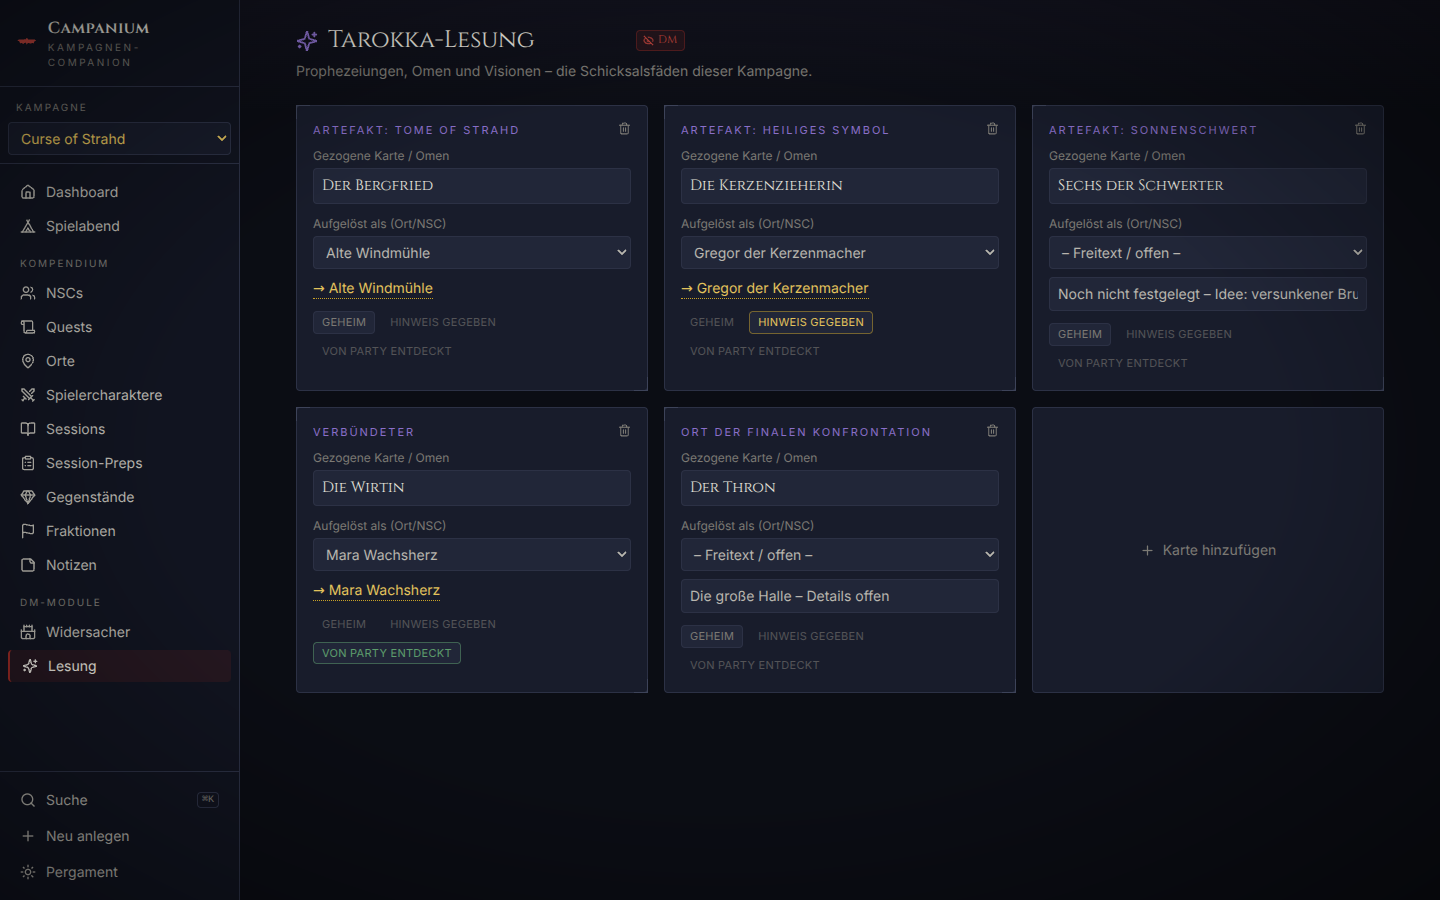
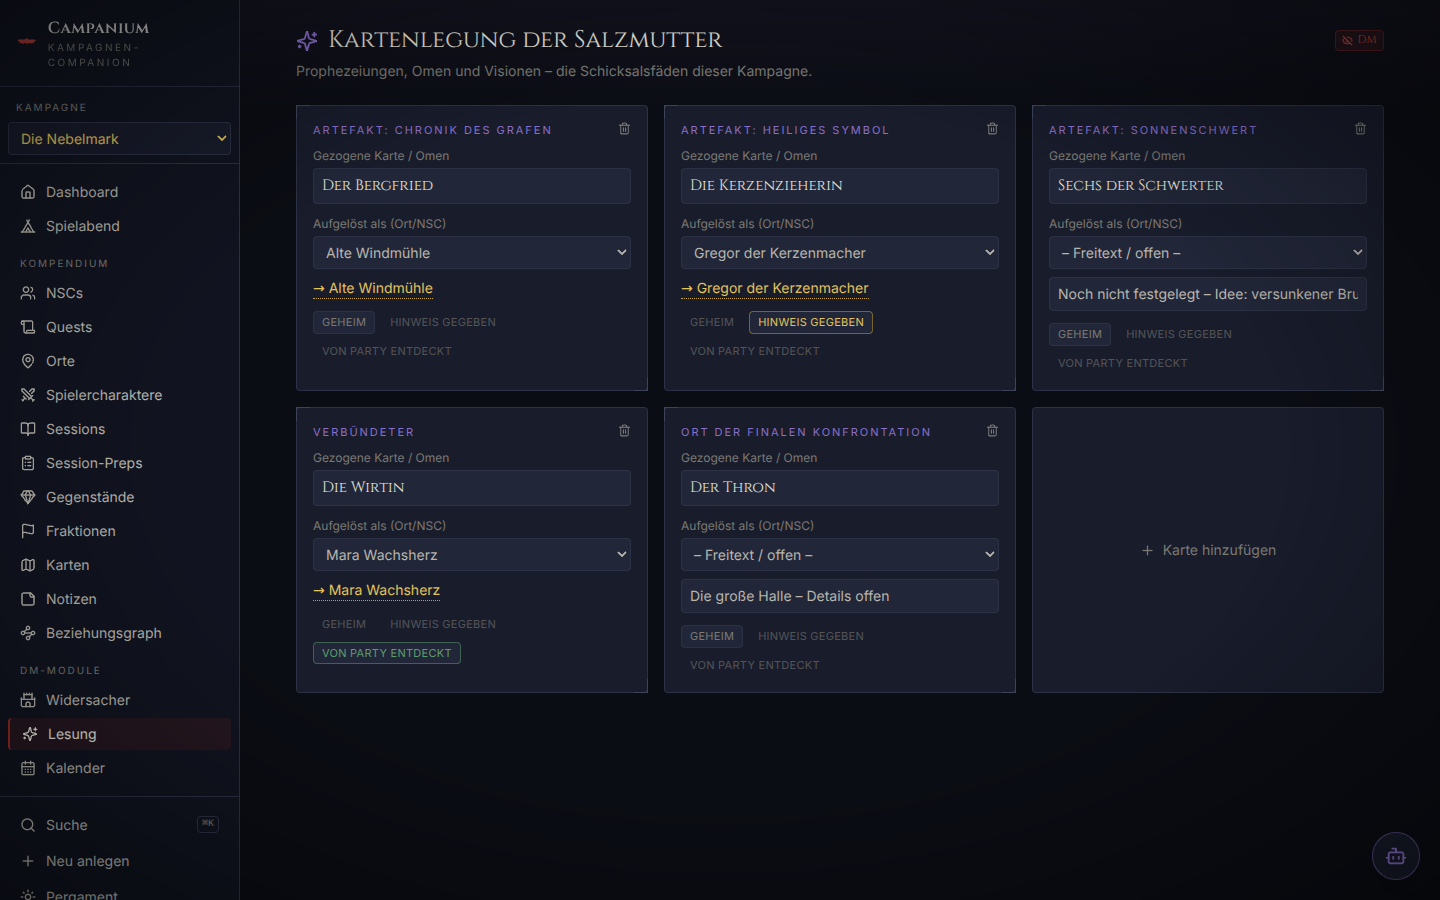
Selaineste statt Selune, Screenshots neu, Fixed-Position-Bugfix
- Selune → Selaineste (Tracker-ID/-Name in der Demo, README,
  ARCHITECTURE): „Selune“ kollidierte selbst mit einem geschützten
  Forgotten-Realms-Namen; Spieler-Export neu gebaut
- Alle 10 Screenshots mit der Nebelmark-Demo neu aufgenommen
  (Dashboard, NSC, Quest-Board, Lesung, Spielabend, Karte, Kalender,
  Graph, Kampagnen-Wechsel, KI-Assistent) – keine Alt-Namen mehr in
  den README-Bildern
- Dabei gefundener Layout-Bug behoben: .karte setzt position:relative
  und überschrieb das fixed des KI-Chat-Drawers und der Wikilink-
  Hover-Vorschau (Tailwind-Important fixed!); Drawer hängt jetzt
  korrekt unten rechts
- Titel-Eingaben von Lesung/Widersacher wachsen mit (flex-1) – lange
  Titel wie „Kartenlegung der Salzmutter“ wurden abgeschnitten

diff --git a/client/src/seiten/WidersacherSeite.tsx b/client/src/seiten/WidersacherSeite.tsx
@@ -60,7 +60,7 @@ export function WidersacherSeite() {
       <h1 className="mb-1 flex items-center gap-2.5 text-2xl">
         <Castle size={22} className="text-blut-hell" aria-hidden />
         <input
-          className="min-w-0 border-b border-transparent bg-transparent font-display text-2xl text-text-stark hover:border-rand focus:border-gold focus:outline-none"
+          className="min-w-0 flex-1 border-b border-transparent bg-transparent font-display text-2xl text-text-stark hover:border-rand focus:border-gold focus:outline-none"
           value={widersacher.name}
           placeholder={t('Name des Widersachers …')}
           onChange={(e) => void setzeWidersacher({ ...widersacher, name: e.target.value })}

diff --git a/client/src/seiten/LesungSeite.tsx b/client/src/seiten/LesungSeite.tsx
@@ -50,7 +50,7 @@ export function LesungSeite() {
       <h1 className="mb-1 flex items-center gap-2.5 text-2xl">
         <Sparkles size={22} className="text-arkan" aria-hidden />
         <input
-          className="min-w-0 border-b border-transparent bg-transparent font-display text-2xl text-text-stark hover:border-rand focus:border-gold focus:outline-none"
+          className="min-w-0 flex-1 border-b border-transparent bg-transparent font-display text-2xl text-text-stark hover:border-rand focus:border-gold focus:outline-none"
           value={lesung.titel}
           placeholder={t('Titel, z. B. „Tarokka-Lesung“ …')}
           onChange={(e) => void setzeLesung({ ...lesung, titel: e.target.value })}

diff --git a/client/src/komponenten/KiChat.tsx b/client/src/komponenten/KiChat.tsx
@@ -98,7 +98,7 @@ export function KiChat() {
       {/* Chat-Drawer */}
       {offen && (
         <div
-          className="karte karte-ornament fixed bottom-5 right-5 z-40 flex h-[70vh] w-[min(26rem,calc(100vw-2.5rem))] flex-col shadow-2xl"
+          className="karte karte-ornament fixed! bottom-5 right-5 z-40 flex h-[70vh] w-[min(26rem,calc(100vw-2.5rem))] flex-col shadow-2xl"
           role="dialog"
           aria-label={t('KI-Assistent')}
           onKeyDown={(e) => e.key === 'Escape' && setOffen(false)}

diff --git a/client/src/komponenten/Markdown.tsx b/client/src/komponenten/Markdown.tsx
@@ -114,7 +114,7 @@ function HoverVorschau({ entitaet, x, y }: VorschauZustand) {
   const haltung = (entitaet as unknown as Record<string, unknown>)['haltung'];
   return (
     <div
-      className="karte karte-ornament fixed z-50 max-w-xs px-3 py-2 text-sm shadow-xl"
+      className="karte karte-ornament fixed! z-50 max-w-xs px-3 py-2 text-sm shadow-xl"
       style={{ left: Math.min(x, window.innerWidth - 320), top: y }}
       role="tooltip"
     >

diff --git a/README.md b/README.md
@@ -47,7 +47,7 @@ The tool runs in two modes:
 - **Relationship graph** — a force-directed view of how everything connects, fed by the same wikilinks and reference fields as the backlinks; filter by type, click a node to jump to its entity.
 - **Wikilinks & backlinks** — type `[[Name]]` (with autocomplete) in any Markdown field to link entities, Obsidian-style. Links render with hover previews; every detail page lists automatic backlinks (“Erwähnt in …”). Unresolved links offer one-click creation.
 - **Global search** — `Cmd/Ctrl+K` fuzzy palette over names, tags and full text, grouped by type, keyboard-first.
-- **Dashboard trackers** — party level, in-game day, an optional escalation tracker (freely named, with editable stage descriptions — “Vessimirs Eskalation” in the demo) and freely addable custom counters (“Selunes Bisse 1/3”), all editable in place.
+- **Dashboard trackers** — party level, in-game day, an optional escalation tracker (freely named, with editable stage descriptions — “Vessimirs Eskalation” in the demo) and freely addable custom counters (“Selainestes Bisse 1/3”), all editable in place.
 - **Quest board** — list, table and Kanban view (open / active / done / failed) with drag & drop.
 - **Session timeline** — chronological log, each session linked to its prep; a dedicated **game-night view** shows tonight’s prep next to quick access to all linked NPCs/locations and table references (random encounter tables etc.).
 - **DM special modules** — a **nemesis tracker** for the campaign’s arch-villain (every appearance: mode, what they wanted, what they got, consequences + an idea stockpile; “Graf Vessimir” in the demo) and a **reading/oracle module** with freely configurable cards (the “Kartenlegung der Salzmutter” in the demo — omens, prophecies or tarot-style readings anywhere else).

diff --git a/ARCHITECTURE.md b/ARCHITECTURE.md
@@ -107,7 +107,7 @@ fiktive Demo-Kampagne „Die Nebelmark“ zeigt eine Belegung:
 | Widersacher-Tracker | Name frei (`widersacher.name`)      | „Graf Vessimir“                     |
 | Lesung              | Titel + beliebig viele Karten       | Kartenlegung der Salzmutter, 5 K.   |
 | Eskalations-Tracker | optional, Titel + Stufen editierbar | „Vessimirs Eskalation“, 5 Stufen    |
-| Custom-Tracker      | beliebige Zähler (`aktuell`/`max`)  | „Selunes Bisse“ 1/3                 |
+| Custom-Tracker      | beliebige Zähler (`aktuell`/`max`)  | „Selainestes Bisse“ 1/3                 |
 | Ort-Region          | Freitext, Filter aus Ist-Werten     | „Wildnis & Straßen“, …              |
 | Kalender            | Monate/Längen/Ära frei, Ereignisse  | 12 fiktive Monate, Jahr 735 NZ      |
 | Karten              | Grafik + Pins auf Orte              | Übersichtskarte des Tals, 3 Pins    |
